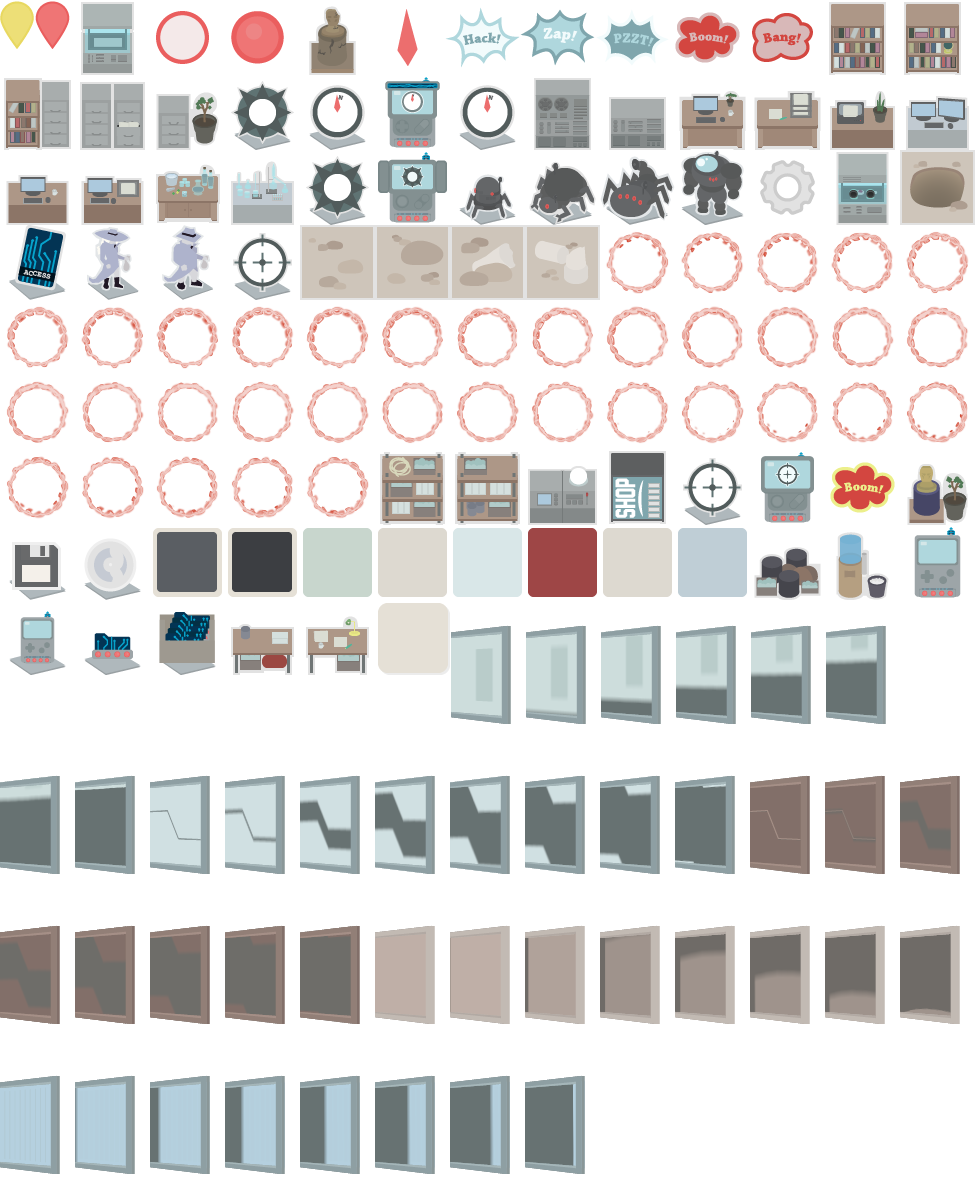
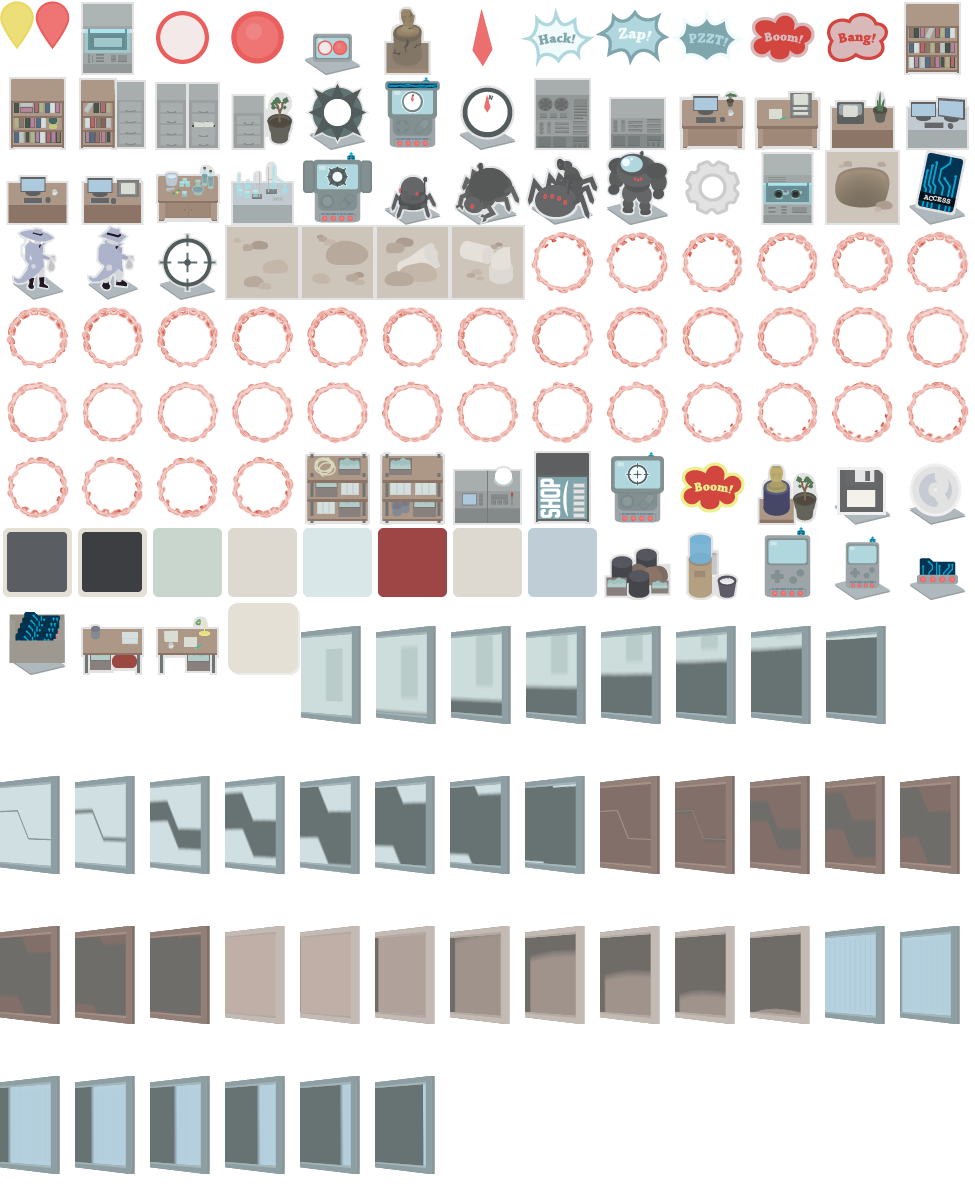
Alert pickup.

diff --git a/src/js/game-objects/level/random-pickup-manager.ts b/src/js/game-objects/level/random-pickup-manager.ts
@@ -3,15 +3,14 @@ import TILE_TYPES from "./tile-types";
 import { levelKeys } from "../../store/levels";
 
 export default class RandomPickupManager {
-  // private pickupOrder: Array<Array<TILE_TYPES>> = [];
   private pickupOrder: { [key: string]: Array<TILE_TYPES>} = {};
 
   constructor() {
     const pickupList = this.generatePickupList()
 
     levelKeys.forEach((key, i) => {
-      if (i % 3 === 0) {
-        this.pickupOrder[key] = [TILE_TYPES.UPGRADE, ...pickupList.splice(0, 1)];
+      if ((i + 1) % 3 === 0) {
+        this.pickupOrder[key] = [TILE_TYPES.UPGRADE, TILE_TYPES.ALERT, ...pickupList.splice(0, 1)];
       } else {
         this.pickupOrder[key] = pickupList.splice(0, 2);
       }
@@ -19,13 +18,14 @@ export default class RandomPickupManager {
   }
 
   getPickupTypeForLevelFromKey(levelKey: string): TILE_TYPES {
-    return this.pickupOrder[levelKey].shift();
+    // Rotate the list...
+    const pickup = this.pickupOrder[levelKey].shift();
+    this.pickupOrder[levelKey].push(pickup)
+    return pickup
   }
 
+  /** Generate a list of 24 pickup tiles, where no repeated tiles are next to each other, and there are 2 of each pickup type. */
   private generatePickupList(): Array<TILE_TYPES> {
-    /*
-     * Generate a list of 24 pickup tiles, where no repeated tiles are next to each other, and there are 2 of each pickup type.
-     */
     let pickupList: Array<TILE_TYPES> = [];
 
     while (pickupList.length < 24) {

diff --git a/src/js/game-objects/level/tile.ts b/src/js/game-objects/level/tile.ts
@@ -137,6 +137,7 @@ export default class Tile {
         this.type === TILE_TYPES.SUPER_ENEMY ||
         this.type === TILE_TYPES.BOSS ||
         this.type === TILE_TYPES.KEY ||
+        this.type === TILE_TYPES.ALERT ||
         this.type === TILE_TYPES.AMMO ||
         this.type === TILE_TYPES.UPGRADE ||
         this.type === TILE_TYPES.COMPASS ||
@@ -153,6 +154,7 @@ export default class Tile {
           this.type === TILE_TYPES.GOLD ||
           this.type === TILE_TYPES.KEY ||
           this.type === TILE_TYPES.AMMO ||
+          this.type === TILE_TYPES.ALERT ||
           this.type === TILE_TYPES.UPGRADE ||
           this.type === TILE_TYPES.COMPASS ||
           this.type === TILE_TYPES.EMP ||
@@ -198,6 +200,7 @@ export default class Tile {
         this.type === TILE_TYPES.SUPER_ENEMY ||
         this.type === TILE_TYPES.BOSS ||
         this.type === TILE_TYPES.AMMO ||
+        this.type === TILE_TYPES.ALERT ||
         this.type === TILE_TYPES.UPGRADE ||
         this.type === TILE_TYPES.COMPASS ||
         this.type === TILE_TYPES.EMP ||

diff --git a/src/js/game-objects/level/tile-types.ts b/src/js/game-objects/level/tile-types.ts
@@ -15,6 +15,7 @@ enum TILE_TYPES {
   SNIPER = "SNIPER",
   AMMO = "AMMO",
   UPGRADE = "UPGRADE",
+  ALERT = "ALERT",
 }
 
 export const isEnemyTile = (tile: TILE_TYPES) =>
@@ -38,6 +39,7 @@ const tileTypeToDebugCharacter: DebugMap = {
   [TILE_TYPES.SNIPER]: "8",
   [TILE_TYPES.AMMO]: "8",
   [TILE_TYPES.UPGRADE]: "8",
+  [TILE_TYPES.ALERT]: "8",
 };
 
 export { tileTypeToDebugCharacter };

diff --git a/src/js/game-objects/game-manager/index.ts b/src/js/game-objects/game-manager/index.ts
@@ -302,6 +302,9 @@ export default class GameManager {
         case TILE_TYPES.AMMO:
           store.addAmmo("hack", 5);
           break;
+        case TILE_TYPES.ALERT:
+          store.addHealth();
+          break;
         case TILE_TYPES.UPGRADE:
           store.upgradeItems();
           store.addAmmo("hack", 5);
